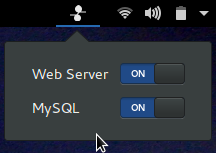
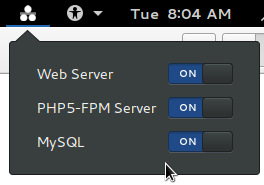
FEATURE: php-fpm service. New indicator graphics & screenshot

diff --git a/extension.js b/extension.js
@@ -20,16 +20,23 @@ let numbersOfTryToDesactivateMysql = 0;
 let numbersOfTryToActivateApache = 0;
 let numbersOfTryToDesactivateApache = 0;
 
+let numbersOfTryToActivateFpm = 0;
+let numbersOfTryToDesactivateFpm = 0;
+
 let numbersOfPkexecProcess = 0;
 
 let maxNumbersOfTry = 8;
 
 // StatusIcon manager
 let statusIcon;
-let lampNoServices      = 'lamp-no-services';
-let lampApacheServices  = 'lamp-apache-services';
-let lampMysqlServices   = 'lamp-mysql-services';
 let lampAllServices     = 'lamp-all-services';
+let lampApacheFpm       = 'lamp-apache-fpm';
+let lampApacheMysql     = 'lamp-apache-mysql';
+let lampApacheServices  = 'lamp-apache-services';
+let lampFpmMysql        = 'lamp-fpm-mysql';
+let lampFpmServices     = 'lamp-fpm-services';
+let lampMysqlServices   = 'lamp-mysql-services';
+let lampNoServices      = 'lamp-no-services';
 let lampLoading         = 'lamp-loading';
 
 // My PopupSwitchMenu
@@ -58,12 +65,38 @@ const Indicator = new Lang.Class({
     _init: function(icon) {
         let icon_classname = lampNoServices;
 
-        if (isApacheActive() && isMysqlActive()) {
+        switch (true) {
+          case isApacheActive() && isFpmActive() && isMysqlActive():
+            // console.log("All True");
             icon_classname = lampAllServices;
-        } else if (isApacheActive()) {
+            break;
+          case isApacheActive() && isFpmActive() && !isMysqlActive():
+            // console.log("Apache & FPM (not MySQL)");
+            icon_classname = lampApacheFpm;
+            break;
+          case isApacheActive() && !isFpmActive() && isMysqlActive():
+            // console.log("Apache & MySQL (not FPM)");
+            icon_classname = lampApacheMysql;
+            break;
+          case isApacheActive() && !isFpmActive() && !isMysqlActive():
+            // console.log("Only Apache");
             icon_classname = lampApacheServices;
-        } else if (isMysqlActive()) {
+            break;
+          case !isApacheActive() && isFpmActive() && isMysqlActive():
+            // console.log("FPM & MySql (not Apache)");
+            icon_classname = lampFpmMysql;
+            break;
+          case !isApacheActive() && isFpmActive() && !isMysqlActive():
+            // console.log("Only FPM");
+            icon_classname = lampFpmServices;
+            break;
+          case !isApacheActive() && !isFpmActive() && isMysqlActive():
+            // console.log("Only MySql");
             icon_classname = lampMysqlServices;
+            break;
+          default:
+            // console.log("None true");
+            icon_classname = lampNoServices;
         }
 
         this.parent(0.0, _config.EXTENSION_NAME);
@@ -91,6 +124,12 @@ const Indicator = new Lang.Class({
         menuItemApache.statusAreaKey = "Web Server";
 
         menuItemApache.connect('toggled', toggleApacheService);
+
+        menuItemFpm = new PopupMenu.PopupSwitchMenuItem("PHP5-FPM Server", isFpmActive());
+        this.menu.addMenuItem(menuItemFpm);
+        menuItemFpm.statusAreaKey = "PHP5-FPM Server";
+
+        menuItemFpm.connect('toggled', toggleFpmService);
 
         menuItemMysql = new PopupMenu.PopupSwitchMenuItem("MySQL", isMysqlActive());
         this.menu.addMenuItem(menuItemMysql);
@@ -153,6 +192,13 @@ function isApacheActive() {
     return outApacheString == "active";
 }
 
+function isFpmActive() {
+    // Get current status of PHP5-FPM service
+    let [resFpm, outFpm] = GLib.spawn_command_line_sync("systemctl is-active "+_config.SERVICENAME_FPM);
+    let outFpmString = outFpm.toString().replace(/(\r\n|\n|\r)/gm,"");
+    return outFpmString == "active";
+}
+
 function isMysqlActive() {
     // Get current status of mysql service
     let [resMysql, outMysql] = GLib.spawn_command_line_sync("systemctl is-active "+_config.SERVICENAME_DBSRV);
@@ -176,6 +222,29 @@ function toggleApacheService() {
                 GLib.timeout_add(0,300,tryActivateApacheService);
             } else {
                 GLib.timeout_add(0,300,tryDesactivateApacheService);
+            }
+	    } catch(Exception) {
+		  Main.notify("Crash !"+Exception);
+	    }
+	}
+}
+
+function toggleFpmService() {
+    let action = "start";
+    if (isFpmActive()) {
+        action = "stop";
+    }
+    numbersOfPkexecProcess = getNumbersOfPkexecProcess();
+
+    let cmd = _config.PKEXEC_PATH + ' systemctl '+action+' '+_config.SERVICENAME_FPM;
+    if (numbersOfTryToActivateFpm == 0 && numbersOfTryToDesactivateFpm == 0) {
+	    try {
+            Util.trySpawnCommandLine(cmd);
+            statusIcon.set_property("style_class", lampLoading);
+            if (action == "start") {
+                GLib.timeout_add(0,300,tryActivateFpmService);
+            } else {
+                GLib.timeout_add(0,300,tryDesactivateFpmService);
             }
 	    } catch(Exception) {
 		  Main.notify("Crash !"+Exception);
@@ -250,6 +319,53 @@ function tryDesactivateApacheService() {
     } else {
         //it's not over !
         numbersOfTryToDesactivateApache++;
+    }
+    return serviceWaiting;
+}
+
+function tryActivateFpmService() {
+    let serviceWaiting = true;
+    // We want to activate FPM
+    if (numbersOfTryToActivateFpm >= maxNumbersOfTry || isFpmActive()) {
+        numbersOfTryToActivateFpm = 0;
+        if (!isPkExecThreadActive()){
+            // PkExec is open ! don't do anything stupid
+            if (isFpmActive()) {
+                Main.notify("PHP5-FPM server is now on");
+            } else {
+                Main.notify("PHP5-FPM server couldn't be activated");
+            }
+            // No need to go to that loop again
+            refreshUI();
+            serviceWaiting = false;
+        }
+    } else {
+        //it's not over !
+        numbersOfTryToActivateFpm++;
+    }
+    return serviceWaiting;
+}
+
+
+function tryDesactivateFpmService() {
+    let serviceWaiting = true;
+    // We want to desactivate FPM
+    if (numbersOfTryToDesactivateFpm >= maxNumbersOfTry || !isFpmActive()) {
+        numbersOfTryToDesactivateFpm = 0;
+        if (!isPkExecThreadActive()){
+            // PkExec is closed open ! don't do anything stupid
+            if (!isFpmActive()) {
+                Main.notify("PHP5-FPM Server is now off");
+            } else {
+                Main.notify("PHP5-FPM Server couldn't be deactivated");
+            }
+            // No need to go to that loop again
+            refreshUI();
+            serviceWaiting = false;
+        }
+    } else {
+        //it's not over !
+        numbersOfTryToDesactivateFpm++;
     }
     return serviceWaiting;
 }
@@ -329,15 +445,39 @@ function refreshUI() {
 function refreshStatusIcon() {
     let icon_classname = lampNoServices;
 
-    if (isApacheActive() && isMysqlActive()) {
-        icon_classname = lampAllServices;
-    } else if (isApacheActive()) {
-        icon_classname = lampApacheServices;
-    } else if (isMysqlActive()) {
-        icon_classname = lampMysqlServices;
-    } else {
-        icon_classname = lampNoServices;
-    }
+switch (true) {
+  case isApacheActive() && isFpmActive() && isMysqlActive():
+    // console.log("All True");
+    icon_classname = lampAllServices;
+    break;
+  case isApacheActive() && isFpmActive() && !isMysqlActive():
+    // console.log("Apache & FPM (not MySQL)");
+    icon_classname = lampApacheFpm;
+    break;
+  case isApacheActive() && !isFpmActive() && isMysqlActive():
+    // console.log("Apache & MySQL (not FPM)");
+    icon_classname = lampApacheMysql;
+    break;
+  case isApacheActive() && !isFpmActive() && !isMysqlActive():
+    // console.log("Only Apache");
+    icon_classname = lampApacheServices;
+    break;
+  case !isApacheActive() && isFpmActive() && isMysqlActive():
+    // console.log("FPM & MySql (not Apache)");
+    icon_classname = lampFpmMysql;
+    break;
+  case !isApacheActive() && isFpmActive() && !isMysqlActive():
+    // console.log("Only FPM");
+    icon_classname = lampFpmServices;
+    break;
+  case !isApacheActive() && !isFpmActive() && isMysqlActive():
+    // console.log("Only MySql");
+    icon_classname = lampMysqlServices;
+    break;
+  default:
+    // console.log("None true");
+    icon_classname = lampNoServices;
+  }
 
     statusIcon.set_property("style_class", icon_classname);
 }

diff --git a/stylesheet.css b/stylesheet.css
@@ -15,8 +15,22 @@ panel-label {
   padding: 50px;
 }
 
-.lamp-no-services {
-    background-image: url("img/lamp_no_services.png");
+.lamp-all-services {
+    background-image: url("img/lamp_all_services.png");
+    background-size: 16px;
+    height: 16px;
+    width: 20px;
+}
+
+.lamp-apache-fpm {
+    background-image: url("img/lamp_apache_fpm.png");
+    background-size: 16px;
+    height: 16px;
+    width: 20px;
+}
+
+.lamp-apache-mysql {
+    background-image: url("img/lamp_apache_mysql.png");
     background-size: 16px;
     height: 16px;
     width: 20px;
@@ -29,6 +43,20 @@ panel-label {
     width: 20px;
 }
 
+.lamp-fpm-mysql {
+    background-image: url("img/lamp_fpm_mysql.png");
+    background-size: 16px;
+    height: 16px;
+    width: 20px;
+}
+
+.lamp-fpm-services {
+    background-image: url("img/lamp_fpm_services.png");
+    background-size: 16px;
+    height: 16px;
+    width: 20px;
+}
+
 .lamp-mysql-services {
     background-image: url("img/lamp_mysql_services.png");
     background-size: 16px;
@@ -36,9 +64,8 @@ panel-label {
     width: 20px;
 }
 
-
-.lamp-all-services {
-    background-image: url("img/lamp_all_services.png");
+.lamp-no-services {
+    background-image: url("img/lamp_no_services.png");
     background-size: 16px;
     height: 16px;
     width: 20px;
@@ -50,4 +77,3 @@ panel-label {
     height: 16px;
     width: 20px;
 }
-

diff --git a/_config.js b/_config.js
@@ -36,5 +36,6 @@ const GSETTINGS_ISINDICATORSHOWN = 'is-indicator-shown';
 
 // Services
 const SERVICENAME_WWWSRV    = 'nginx';
+const SERVICENAME_FPM       = 'php5-fpm';
 const SERVICENAME_DBSRV     = 'mysql';
 const PKEXEC_PATH           =  GLib.find_program_in_path('pkexec');

diff --git a/README.md b/README.md
@@ -7,6 +7,7 @@ A [Gnome Shell Extension](https://extensions.gnome.org/) to control Web and Data
 ## Configuration Defaults
 * Use `nginx` (instead of `apache`)
 * Support Ubuntu systemd service names (`mysql` instead of `mysqld`)
+* Support for PHP5-FPM
 
 **Note:**  These settings can be manually changed in the file `~/.local/share/gnome-shell/extensions/web-dev-panel@mediadoneright.com/__config.js`
 
